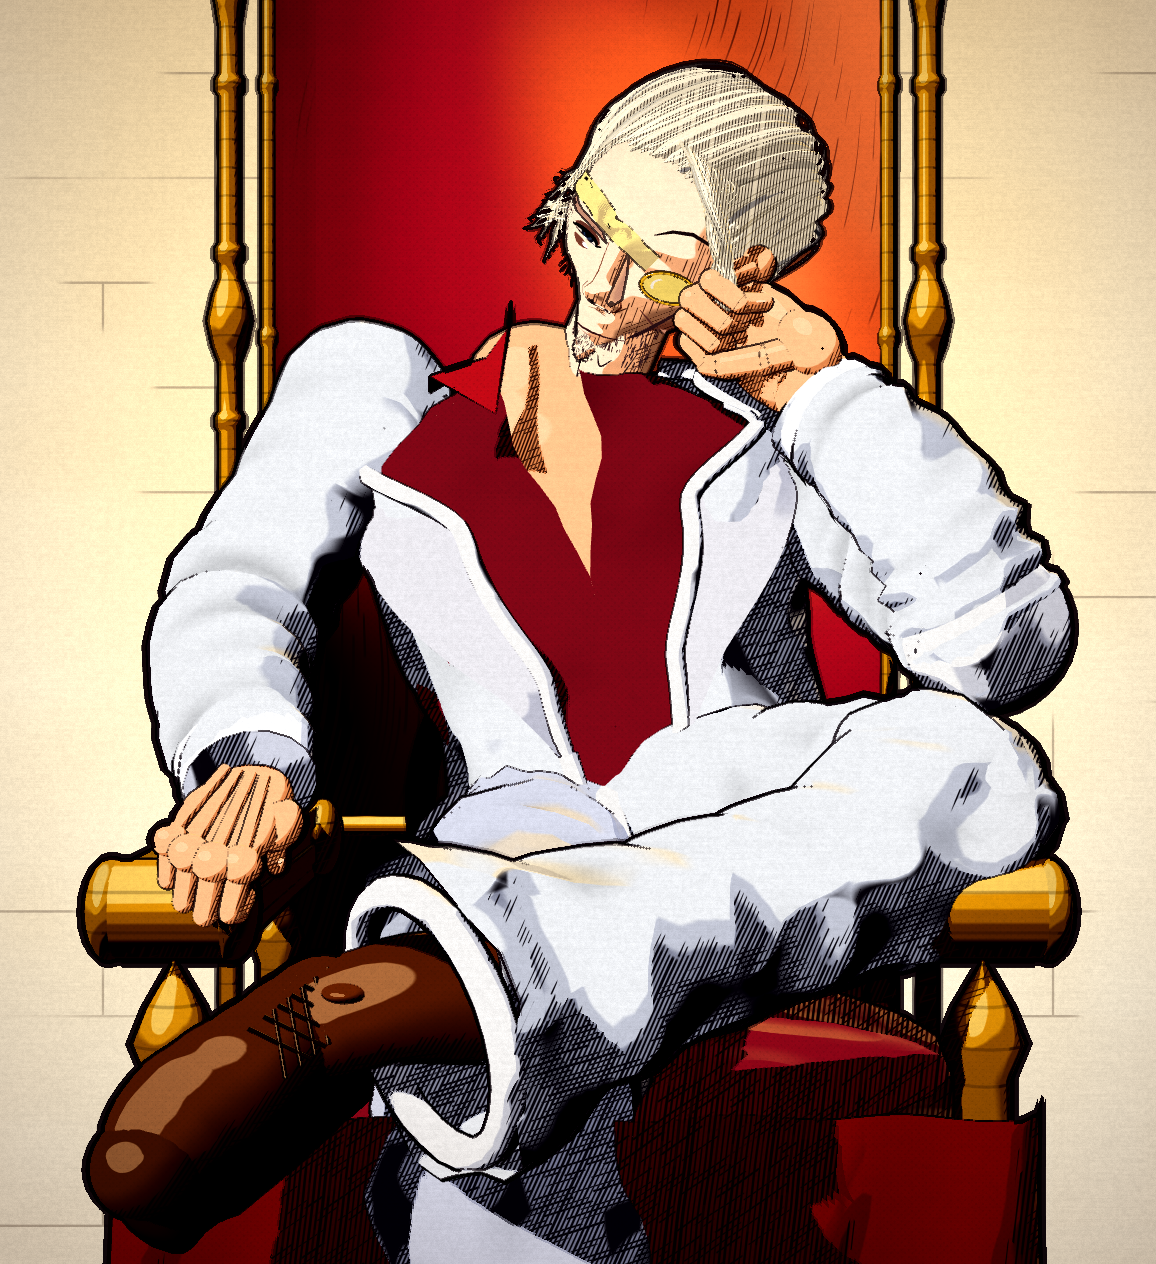
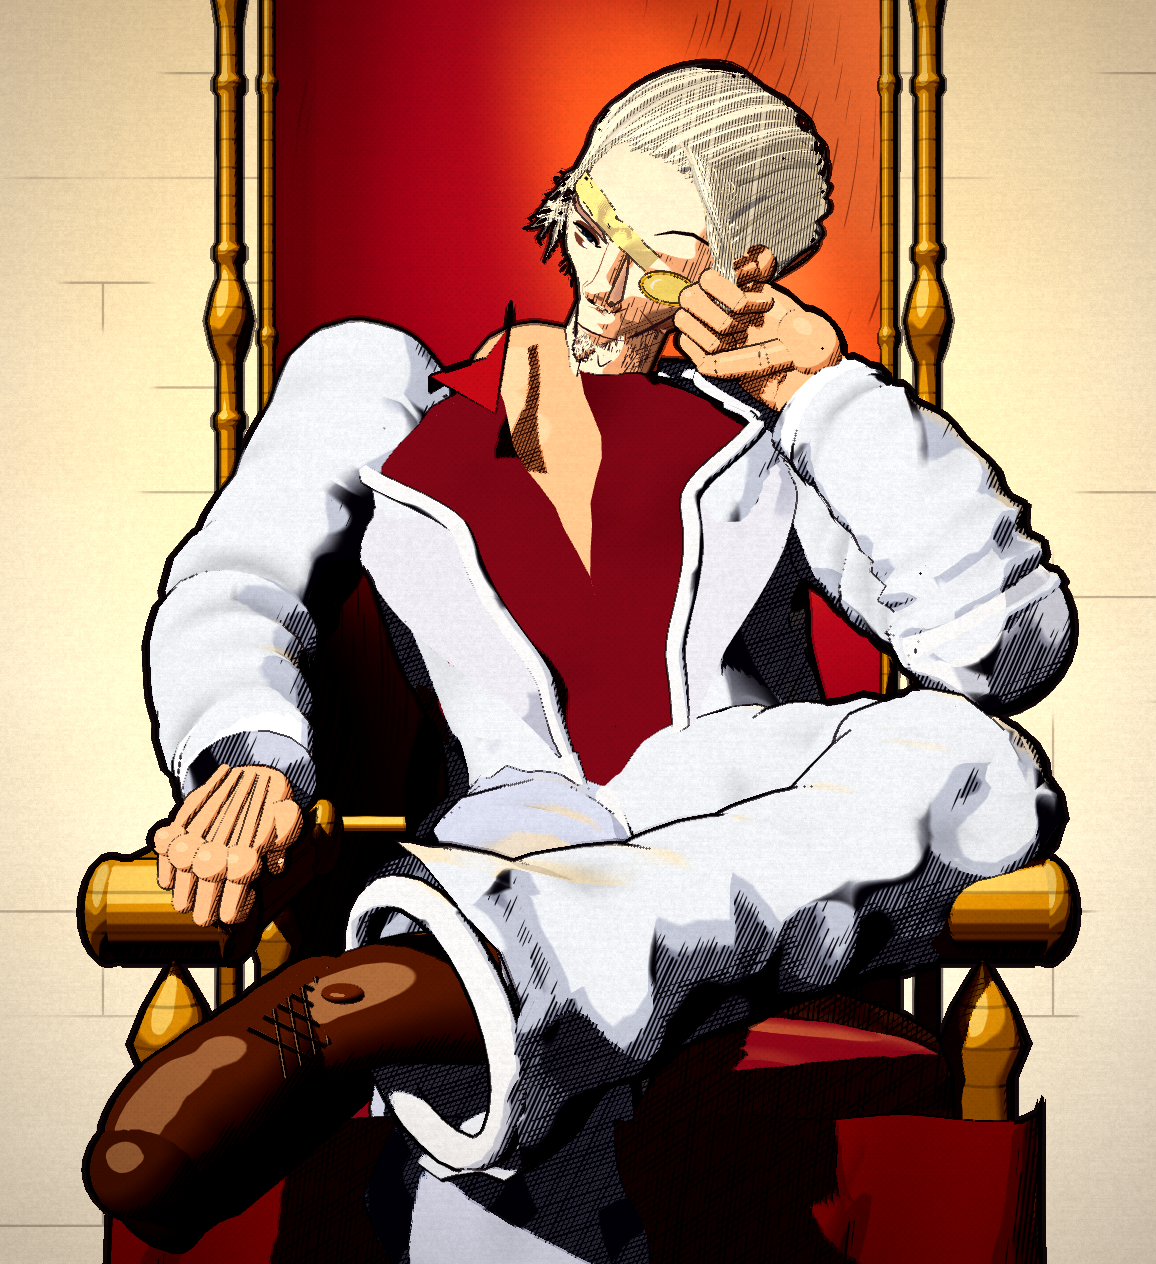
baku3d: round 4 style pass
Claude-Session: https://claude.ai/code/session_01JH6q5z1jEaKTaWuFe2UCrC

diff --git a/baku3d/src/headB_hair.js b/baku3d/src/headB_hair.js
@@ -179,21 +179,21 @@ export function buildHair(THREE, style, field, skullGeo) {
   }
   // right (viewer's) long bangs: a thick wavy sweep falling from the parting over the temple, hanging beside the cheek
   const lockCen = V(0, 0.04, -0.01);
-  for (let i = 0; i < 46; i++) {
-    const u = i / 45, jit = () => R(-0.0065, 0.0065);
+  for (let i = 0; i < 38; i++) {
+    const u = i / 37, jit = () => R(-0.008, 0.008);
     const x0 = 0.000 + 0.05 * u;
-    const wave = R(0.002, 0.008), sgn = rnd() < 0.5 ? 1 : -1;
-    const len = 0.55 + 0.6 * R(0, 1);
+    const wave = R(0.003, 0.009), sgn = rnd() < 0.5 ? 1 : -1;
+    const len = R(0.3, 1.0);
     const ctrl = [
       [x0 - 0.02, 0.118 - 0.01 * u, 0.050],
       [x0 + 0.004 + jit(), 0.112 - 0.01 * u, 0.074 + jit()],
       [0.040 + 0.020 * u + jit(), 0.092 - 0.012 * u, 0.094 - 0.006 * u],
-      [0.068 + 0.012 * u + wave * sgn, 0.060 - 0.018 * u, 0.094 - 0.012 * u],
-      [0.082 + 0.008 * u - wave * sgn, 0.030 - 0.010 * u * len, 0.078 - 0.010 * u],
-      [0.088 + 0.006 * u + wave * sgn, 0.006 - 0.014 * len, 0.058 - 0.012 * u],
-      [0.086 + 0.010 * u - wave * sgn * 0.5, -0.010 - 0.022 * len, 0.048 - 0.018 * u],
+      [0.068 + 0.012 * u + wave * sgn, 0.062 - 0.018 * u, 0.094 - 0.012 * u],
+      [0.082 + 0.008 * u - wave * sgn, 0.034 - 0.014 * len, 0.078 - 0.010 * u],
+      [0.088 + 0.006 * u + wave * sgn, 0.016 - 0.030 * len, 0.060 - 0.012 * u],
+      [0.086 + 0.010 * u - wave * sgn * 0.5, 0.004 - 0.040 * len, 0.050 - 0.018 * u],
     ];
-    lock(rnd() < 0.16 ? buckets[2] : pick(), ctrl, R(0.0028, 0.0058), 0.0016, 34, lockCen, R(0.002, 0.004), R(0.004, 0.009));
+    lock(rnd() < 0.25 ? buckets[2] : pick(), ctrl, R(0.0030, 0.0060), 0.0016, 34, lockCen, R(0.003, 0.006), R(0.006, 0.012));
   }
   // left (viewer's) temple: a few short locks fall in front of the ear, tucked close to the head
   for (let i = 0; i < 9; i++) {

diff --git a/baku3d/src/head.js b/baku3d/src/head.js
@@ -230,7 +230,7 @@ export function buildHead(THREE, style) {
       if (!(edge > 0.7 || Math.abs(x) < 0.016)) continue;
       place(x, y, 0.0028 + R() * 0.0024, (R() - 0.5) * 0.5 + (x > 0 ? 0.3 : -0.3) * edge);
     }
-    for (let k = 0; k < 130; k++) { const x = -(0.056 + R() * 0.014), y = -0.050 + R() * 0.075; place(x, y, 0.0035 + R() * 0.003, (R() - 0.5) * 0.3); }
+    for (let k = 0; k < 110; k++) { const y = -0.052 + R() * 0.060, x = -(0.70 + R() * 0.22) * field.Wf(y); place(x, y, 0.0035 + R() * 0.003, (R() - 0.5) * 0.3); }
     for (let k = 0; k < 30; k++) { const x = 0.060 + R() * 0.012, y = -0.050 + R() * 0.030; place(x, y, 0.0035 + R() * 0.003, (R() - 0.5) * 0.3); }
     const m = decal(mergeGeos(THREE, geos), ink(0x3b2a2c, 'eye', 1), 'stubble'); face.add(m);
   }

diff --git a/baku3d/src/style.js b/baku3d/src/style.js
@@ -120,7 +120,7 @@ void main(){
   vec3 V = normalize(-vVp);
   float ndl = dot(N, uLV);
   float sh = shadowAt(vPw, V2W * normalize(vNv));
-  float s = min(ndl, mix(-0.46, 1.0, sh));
+  float s = min(ndl, mix(-0.40, 1.0, sh));
 
   vec3 base = pow(max(uBase * vCol, 0.0), vec3(1.0 / 2.2));
   float e = max(0.03, uSoft);
